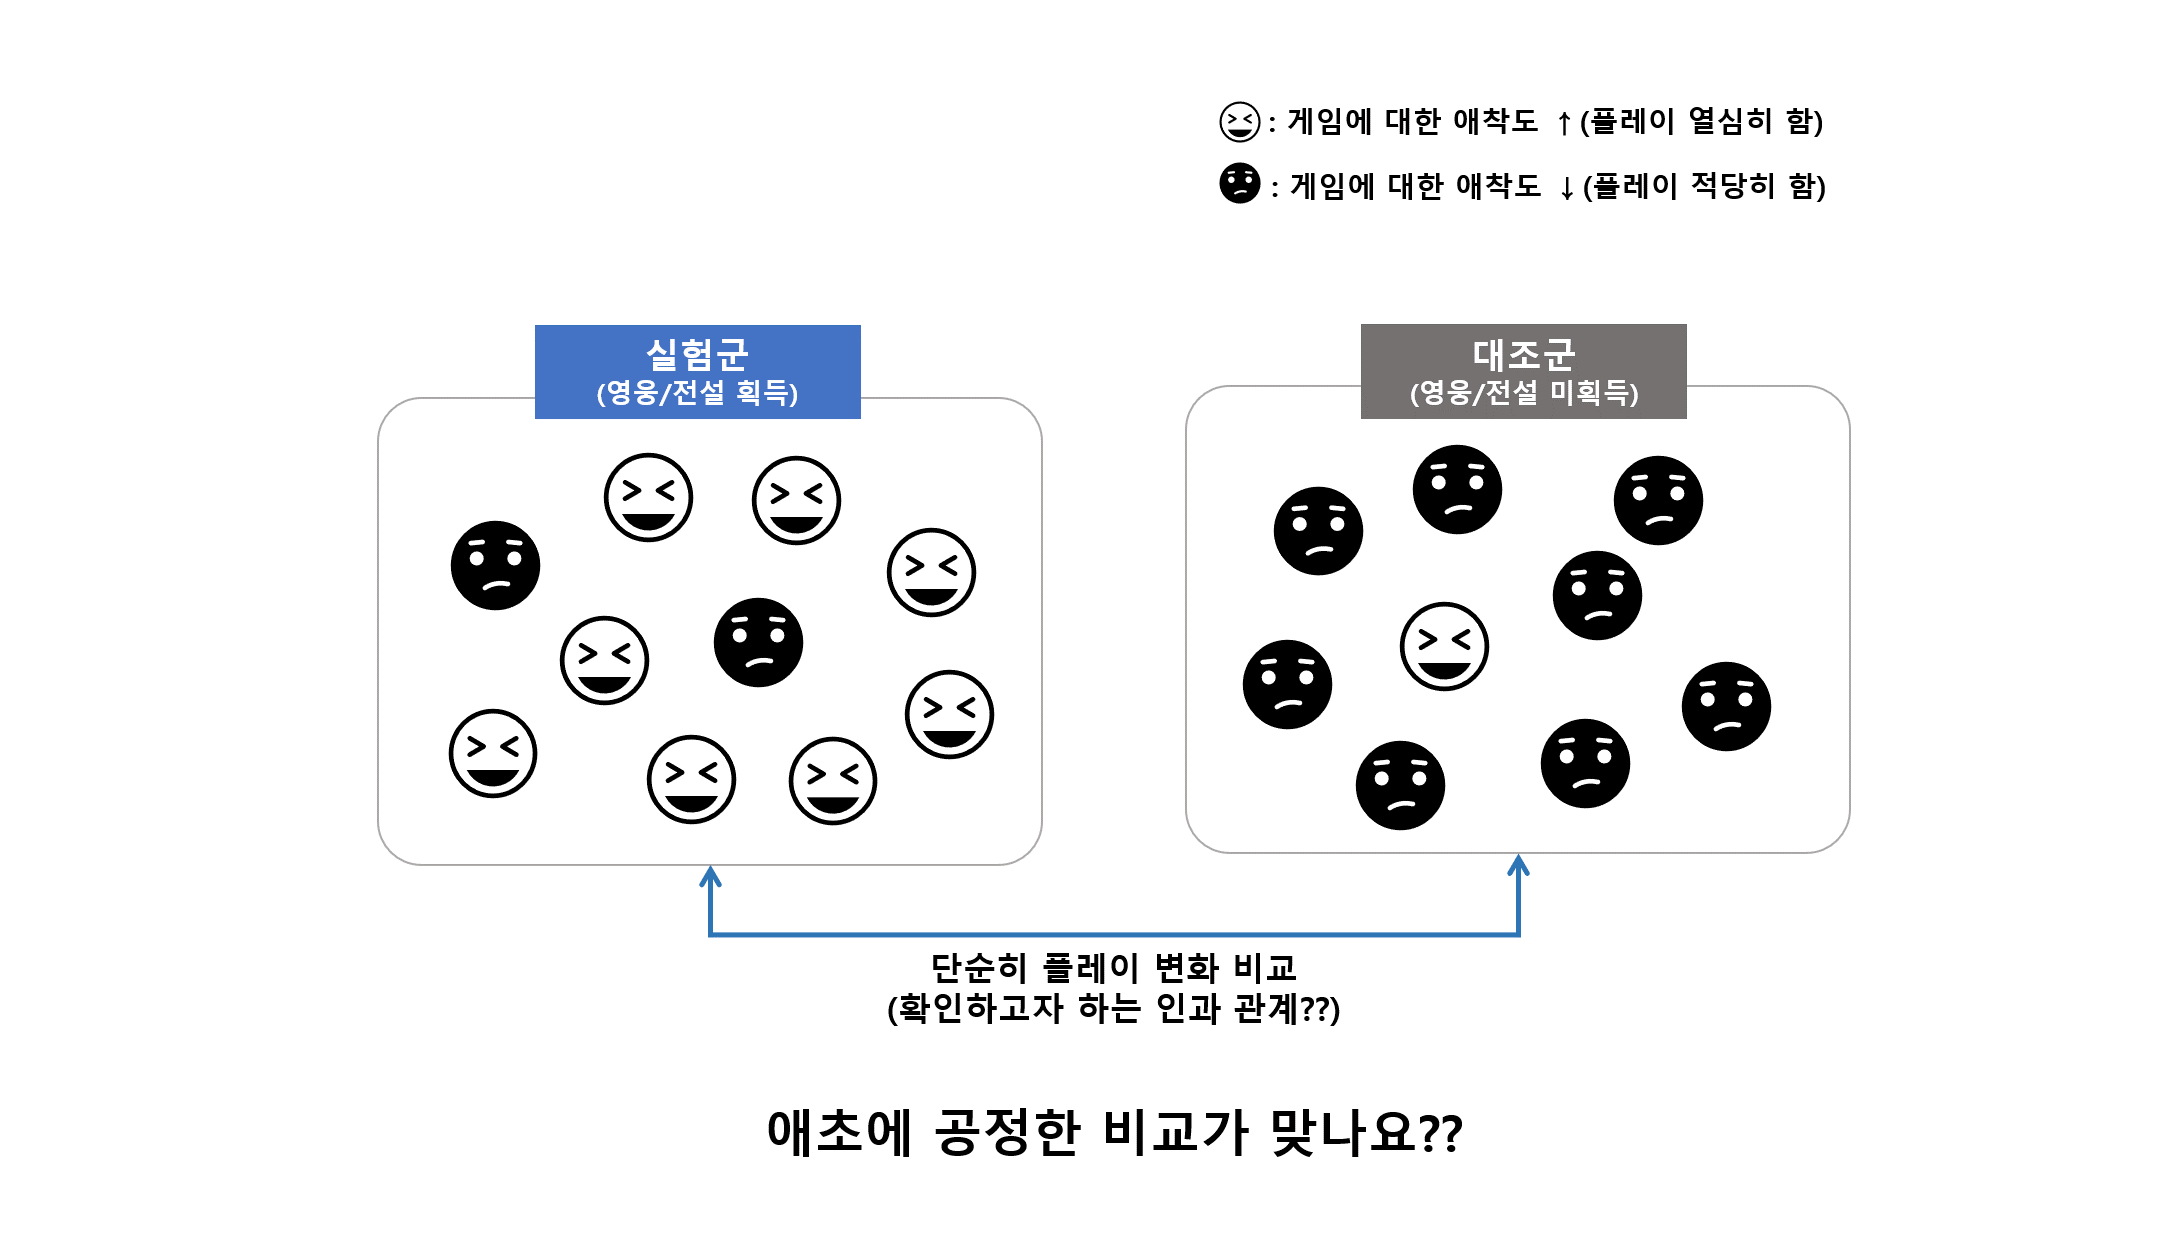
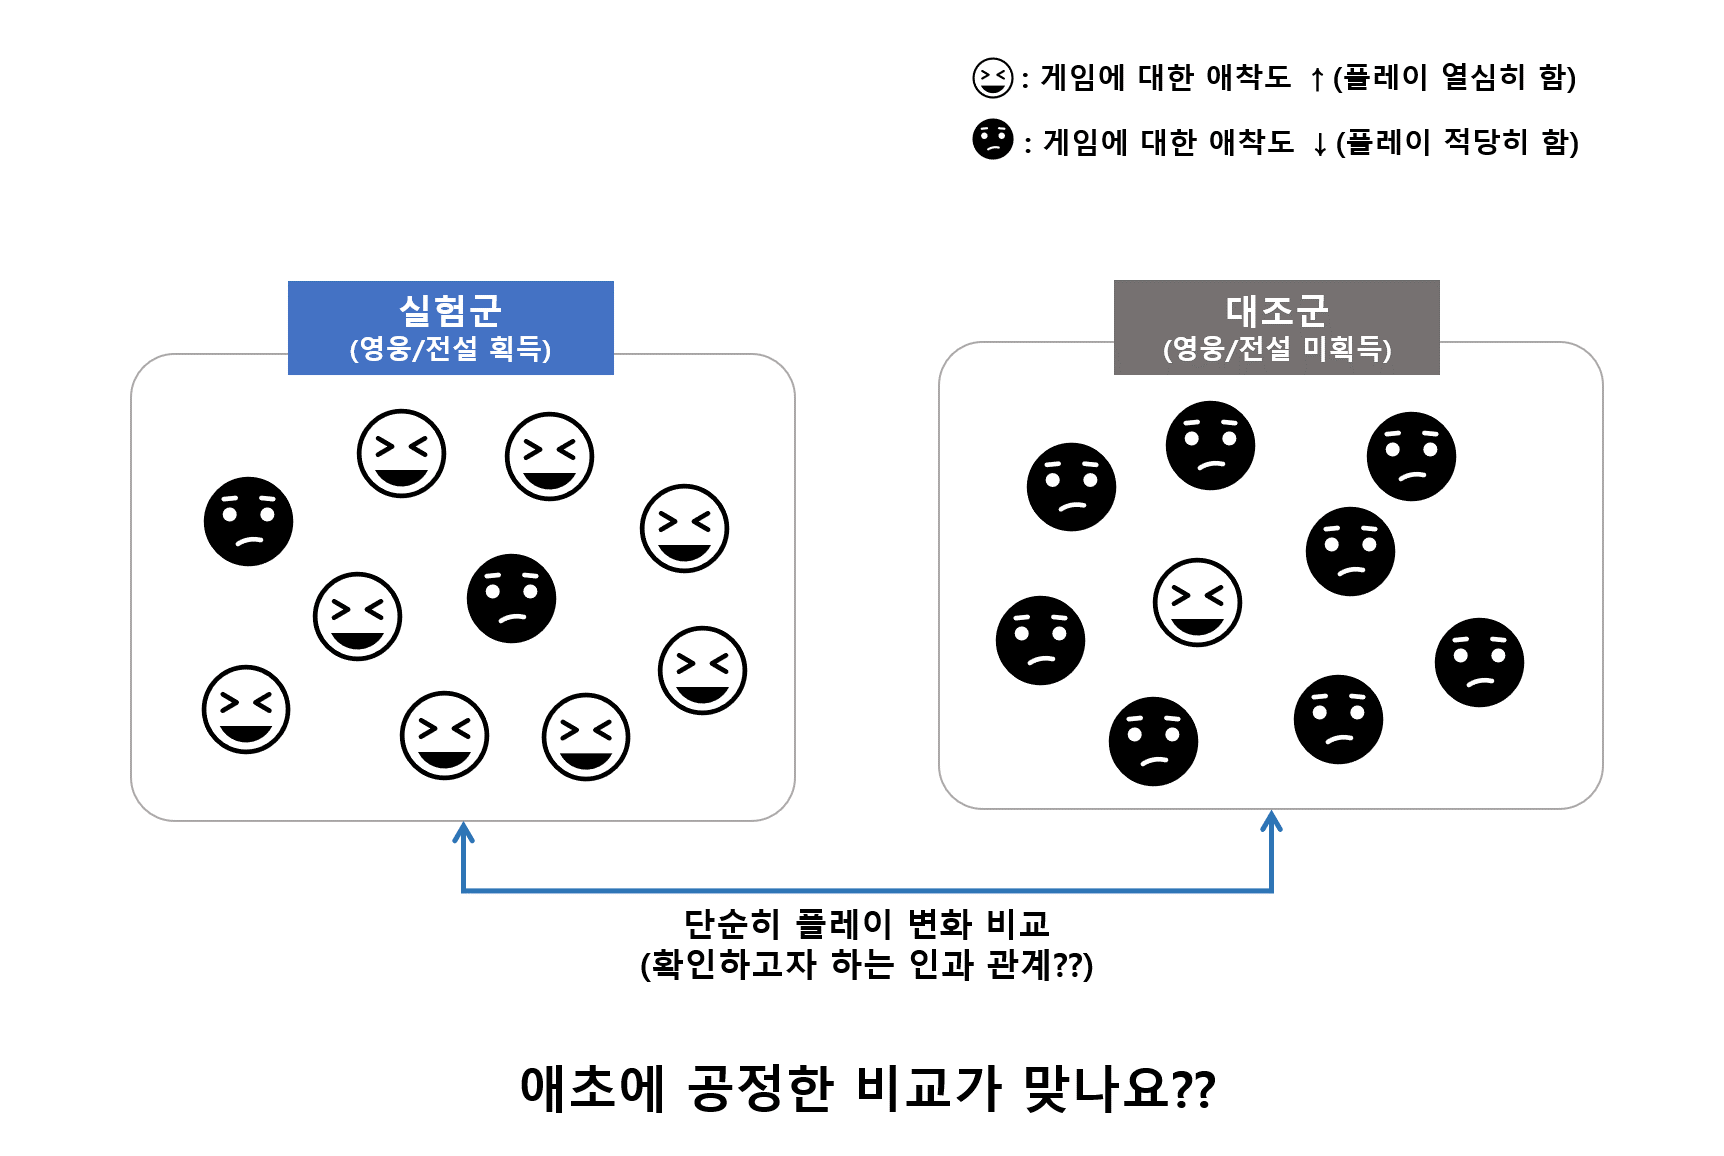
이미지 resize

diff --git a/_posts/2021-05-10-class_get_causal_analysis.md b/_posts/2021-05-10-class_get_causal_analysis.md
@@ -51,7 +51,7 @@ cover: "/assets/l2m_cover.jpg"
 
 
 
-<p align="center"><img src = "/assets/works/class_get_causal_analysis/image1_2.png" width="65%" /><br>[그림2-2] 교란 변수 때문에 애초에 두 그룹의 공정한 비교가 불가능합니다</p>
+<p align="center"><img src = "/assets/works/class_get_causal_analysis/image1_2.png" width="60%" /><br>[그림2-2] 교란 변수 때문에 애초에 두 그룹의 공정한 비교가 불가능합니다</p>
 
 * 애초에 게임에 애착이 많은 유저는 영웅/전설 획득 가능성이 높을 수 있으며, 플레이 변화가 증가할 가능성(게임을 열심히 함)도 높을 수 있습니다.
 * 게임에 대한 애착도가 영웅/전설 획득과 플레이 변화에 동시에 영향을 주기 때문에, 실제로 영웅/전설 획득과 플레이 변화 간에 인과 관계가 없더라도 "상관 관계"가 생길 수 있습니다.
